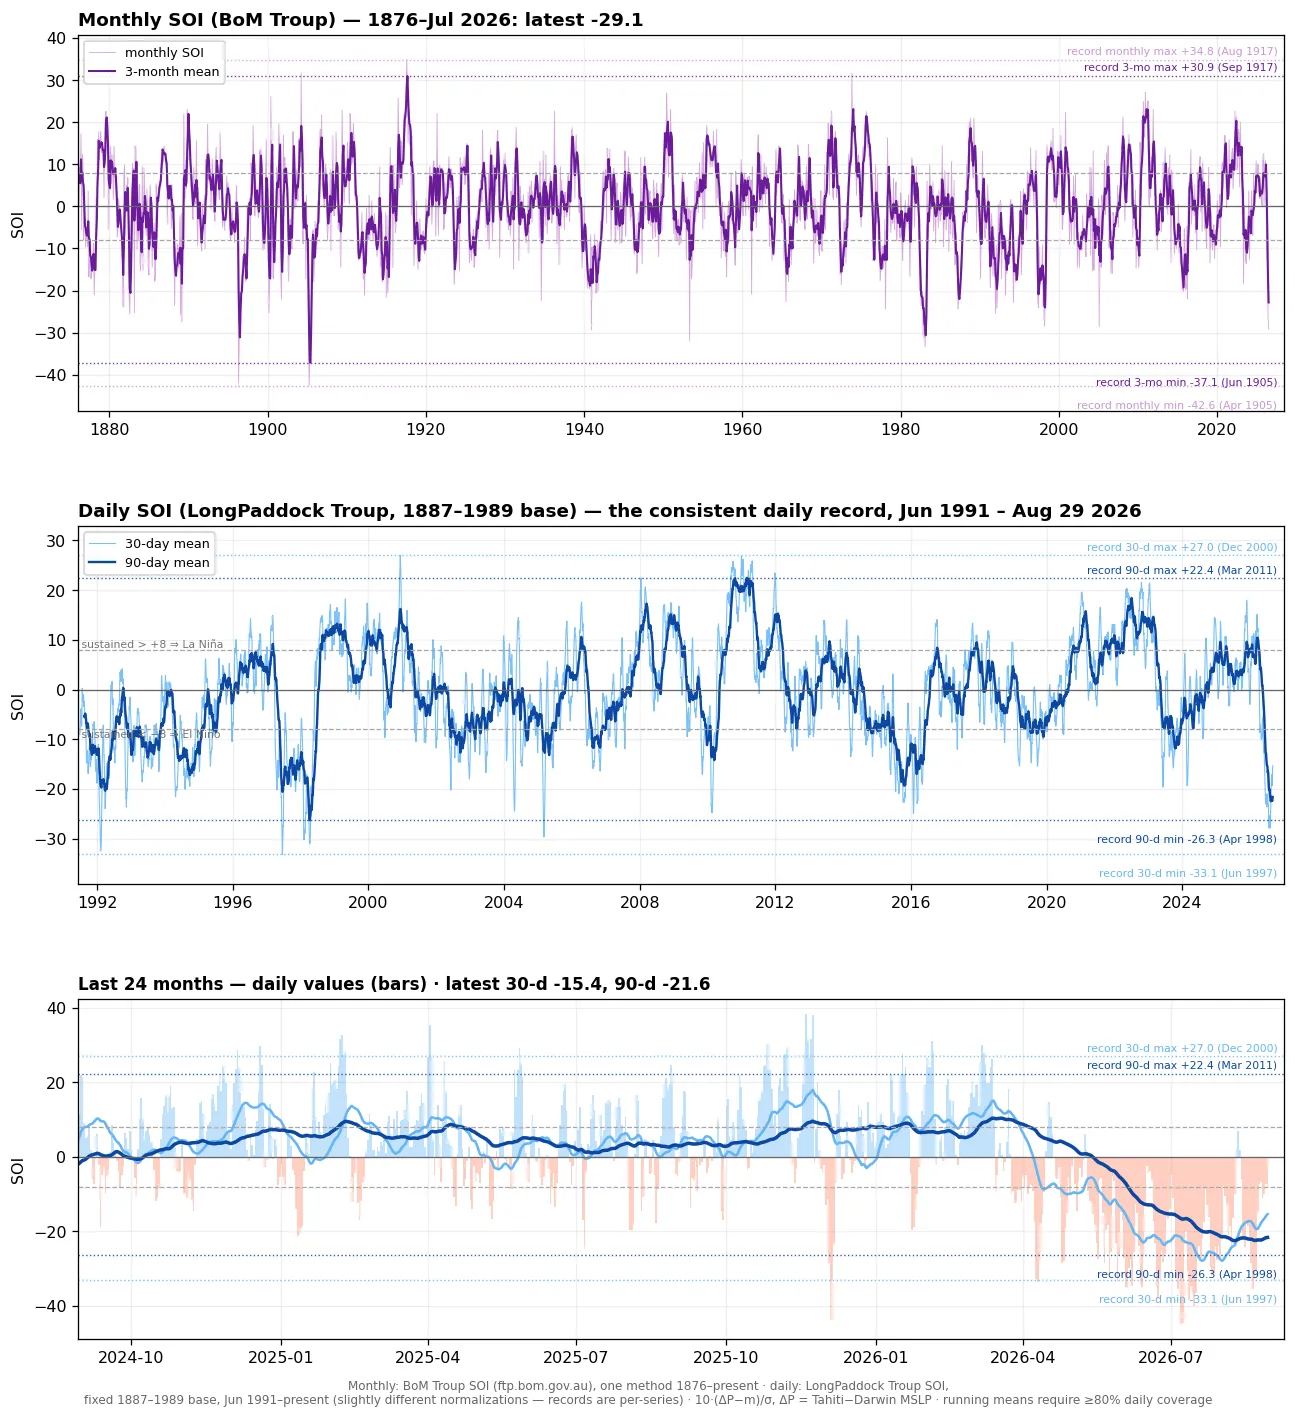
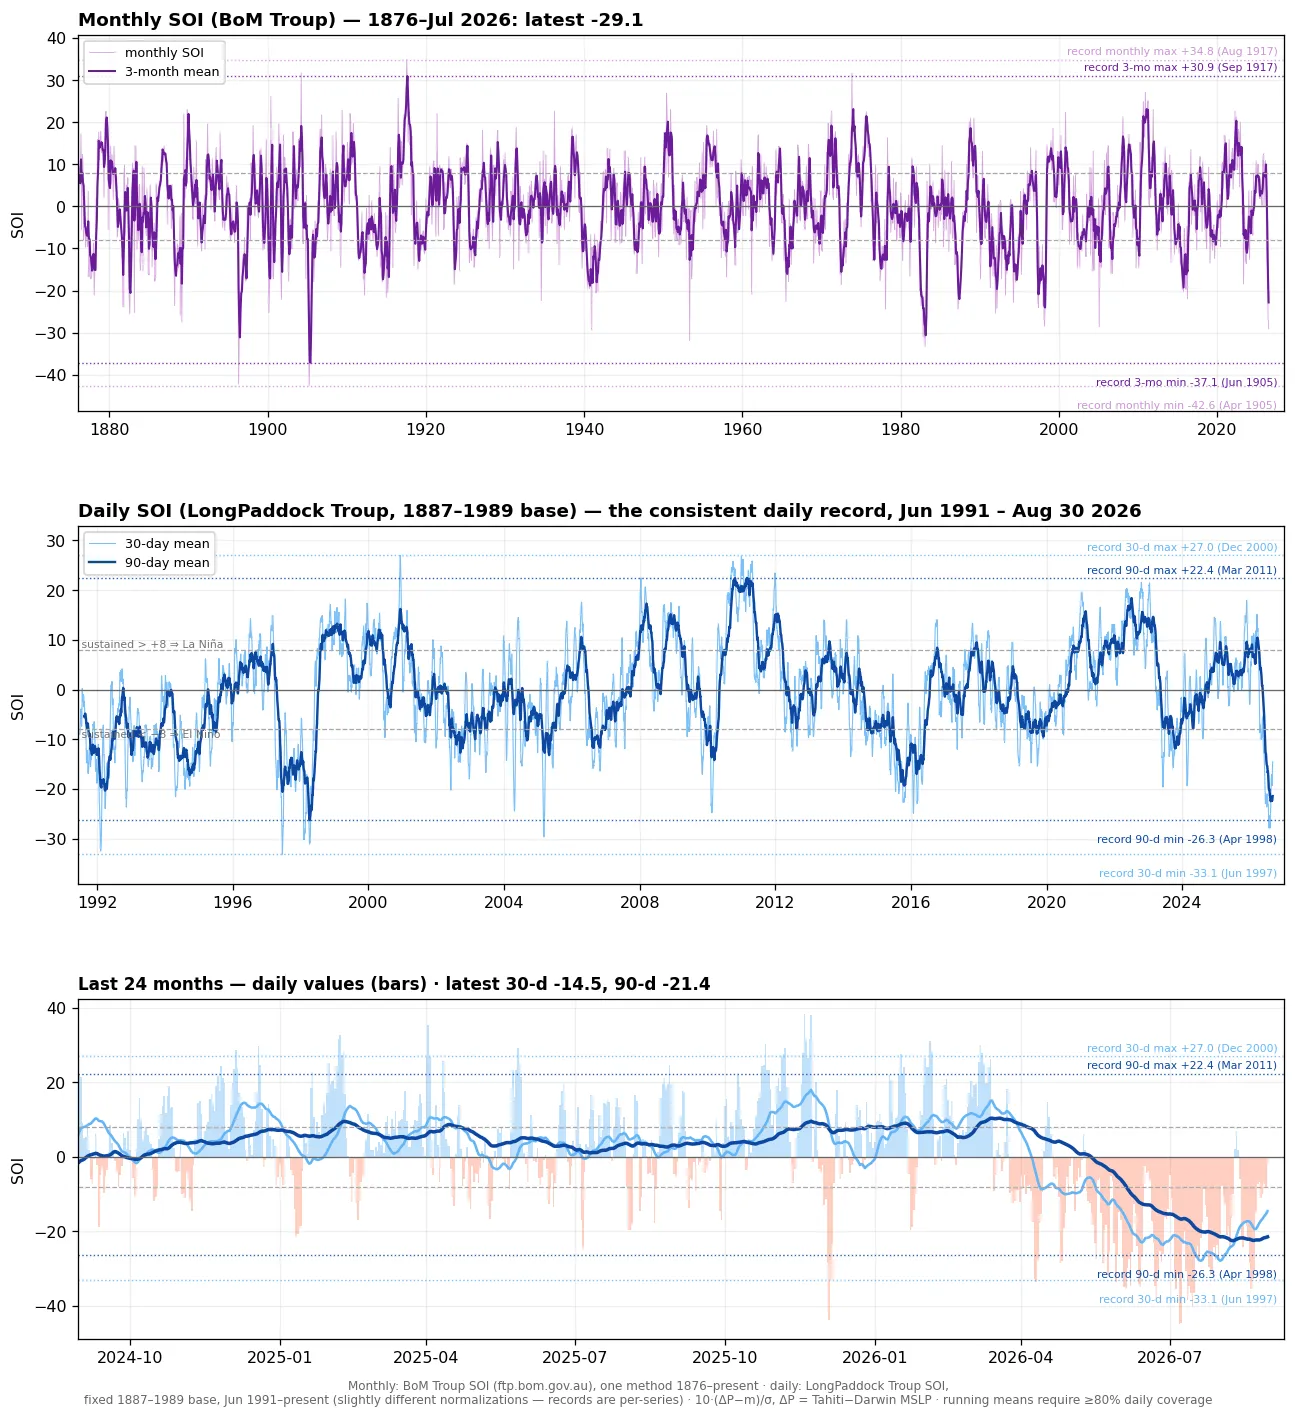
data update: 20260830_00z (a)

diff --git a/enso-atmosphere.html b/enso-atmosphere.html
@@ -652,7 +652,7 @@
         <h2>Atmospheric Angular Momentum</h2>
         <p>Relative AAM is the angular momentum carried by the winds, the atmosphere's total westerly momentum, &int;&nbsp;u&middot;cos&sup2;&phi; over the whole globe. It is dominated by the upper-tropospheric subtropical jets and the deep tropics (largest moment arm), shown here for the globe and each hemisphere from the AIFS-ENS winds on 14 pressure levels (10&ndash;1000&nbsp;hPa &mdash; the full column, validated against the 37-level ERA5 integral and GFZ's ESMGFZ wind-term series to ~1%). The top panel is this year's observed AAM (black) and the 15-day forecast (red) on the climatological annual cycle; the hemispheres are strongly out of phase (each peaks in its own winter). The bottom panel is the anomaly (departure from the 1991&ndash;2020 normal), which removes the seasonal cycle. El&nbsp;Ni&ntilde;o strengthens the subtropical jets and weakens the trades, so the atmosphere holds more westerly momentum; conservation then requires the solid Earth to slow, so AAM ties directly to the measured length of day. The <span style="color:#2e7d32"><b>green trace</b></span> is GFZ's independent ESMGFZ wind-term series (computed from ECMWF's operational analyses for the Earth-rotation community) &mdash; a continuous external check on this pipeline.</p>
       </div>
-      <div class="img-wrap"><img src="assets/sst/aam.webp?v=202608300652" alt="Global and hemispheric atmospheric angular momentum: observed + AIFS-ENS forecast, absolute and anomaly" loading="lazy"></div>
+      <div class="img-wrap"><img src="assets/sst/aam.webp?v=202608300855" alt="Global and hemispheric atmospheric angular momentum: observed + AIFS-ENS forecast, absolute and anomaly" loading="lazy"></div>
       <div class="chart-card-footer"><span class="chart-sources">Forecast: ECMWF AIFS-ENS (open data, CC BY 4.0) &middot; climatology &amp; this-year observed: ERA5 (Copernicus C3S / ECMWF) &middot; updated daily</span></div>
       </div>
 
@@ -660,7 +660,7 @@
       <div class="chart-card-header">
         <h2>AAM Forecast Trend (run-to-run)</h2>
       </div>
-      <div class="img-wrap"><img src="assets/sst/aam_trend.webp?v=202608300652" alt="Run-to-run trend of AIFS-ENS ensemble-mean AAM anomaly forecasts, global and hemispheric" loading="lazy"></div>
+      <div class="img-wrap"><img src="assets/sst/aam_trend.webp?v=202608300855" alt="Run-to-run trend of AIFS-ENS ensemble-mean AAM anomaly forecasts, global and hemispheric" loading="lazy"></div>
       <div class="chart-card-footer"><span class="chart-sources">ECMWF AIFS-ENS (open data, CC BY 4.0) &middot; anomaly vs ERA5 1991&ndash;2020 (Copernicus C3S) &middot; archived each cycle</span></div>
       </div>
 
@@ -669,7 +669,7 @@
         <h2>AAM Phase: Where the Momentum Is, and Where It&rsquo;s Going</h2>
         <p><b>Top</b>: relative AAM integrated in 1.5&deg; latitude bands &mdash; ~3 months observed (ERA5) plus the 15-day AIFS-ENS mean forecast &mdash; so poleward-propagating westerly anomalies and building subtropical momentum show as slanted warm streaks. <b>Bottom</b>: each hemisphere's trajectory through (AAM anomaly, tendency) phase space, the hemispheric analog of the Weickmann&ndash;Berry global wind oscillation orbit: grey trail = last 75 days, red = the forecast. The headline sentence is generated automatically from the forecast quadrant and the latitude band driving the change &mdash; e.g. <i>"NH: rising above-normal AAM &mdash; subtropical westerlies increasing."</i></p>
       </div>
-      <div class="img-wrap"><img src="assets/sst/aam_phase.webp?v=202608300652" alt="Hemispheric AAM phase diagnostics: latitude-time anomaly heatmap and NH/SH phase-space orbits with forecast" loading="lazy"></div>
+      <div class="img-wrap"><img src="assets/sst/aam_phase.webp?v=202608300855" alt="Hemispheric AAM phase diagnostics: latitude-time anomaly heatmap and NH/SH phase-space orbits with forecast" loading="lazy"></div>
       <div class="chart-card-footer"><span class="chart-sources">ERA5 (local store) &middot; AIFS-ENS ensemble mean (open data, CC BY 4.0) &middot; clim: ERA5 1991&ndash;2020 &middot; updated daily</span></div>
       </div>
 
@@ -685,8 +685,8 @@
       </div>
       <iframe data-deferred class="anim-embed torque" data-src="sst_anim.html?embed=1&amp;manifest=torque_manifest.json&amp;region=torque"
               title="AAM surface-torque anomaly animation (friction + mountain) over the AIFS-ENS forecast" loading="lazy"></iframe>
-      <div class="img-wrap"><img src="assets/sst/torque_timeseries.webp?v=202608300652" alt="AAM torque anomalies for globe, Northern and Southern Hemisphere" loading="lazy"></div>
-      <div class="img-wrap"><img src="assets/sst/torque_ranges.webp?v=202608300652" alt="Mountain-torque anomaly broken down by range (Himalaya, Rockies, Andes, Greenland, Antarctica, Alps)" loading="lazy"></div>
+      <div class="img-wrap"><img src="assets/sst/torque_timeseries.webp?v=202608300855" alt="AAM torque anomalies for globe, Northern and Southern Hemisphere" loading="lazy"></div>
+      <div class="img-wrap"><img src="assets/sst/torque_ranges.webp?v=202608300855" alt="Mountain-torque anomaly broken down by range (Himalaya, Rockies, Andes, Greenland, Antarctica, Alps)" loading="lazy"></div>
       <div class="chart-card-footer"><span class="chart-sources">ECMWF AIFS-ENS surface pressure &amp; 10 m wind (open data, CC BY 4.0) &middot; drag coefficient and torque climatology from ERA5 1991&ndash;2020 (Copernicus C3S) &middot; instantaneous once-daily fields &middot; updated daily</span></div>
 
     <!-- E-P FLUX & WAVE DRIVING -->
@@ -747,7 +747,7 @@
       </div>
       <iframe data-deferred class="anim-embed jets" data-src="sst_anim.html?embed=1&amp;manifest=jets_manifest.json&amp;region=jets"
               title="Subtropical jet forecast animation: zonal-mean wind anomaly cross-section, day 0-15 from AIFS-ENS" loading="lazy"></iframe>
-      <div class="img-wrap"><img src="assets/sst/jets.webp?v=202608300652" alt="Subtropical jet monitor: zonal-mean wind cross-section anomaly and jet-core strength/latitude forecast vs ERA5 climatology" loading="lazy"></div>
+      <div class="img-wrap"><img src="assets/sst/jets.webp?v=202608300855" alt="Subtropical jet monitor: zonal-mean wind cross-section anomaly and jet-core strength/latitude forecast vs ERA5 climatology" loading="lazy"></div>
       <div class="chart-card-footer"><span class="chart-sources">ECMWF AIFS-ENS 13-level zonal wind, 51 members (open data, CC BY 4.0) &middot; clim: ERA5 1991&ndash;2020 harmonic day-of-year normal &plusmn;1&sigma; (WeatherBench2 / Copernicus C3S) &middot; updated daily</span></div>
       </div>
       

diff --git a/sst.html b/sst.html
@@ -631,7 +631,7 @@
       <h2>Daily SOI: the Current Event vs the Record</h2>
       <p><b>150 years of the Southern Oscillation, with today marked against the records.</b> <b>Top</b>: the Bureau of Meteorology's monthly Troup SOI computed one way from <b>1876 to the present</b> &mdash; monthly (light) and 3-month mean (bold), with dotted record lines: the all-time monthly extremes were set in Apr&nbsp;1905 (&minus;42.6) and Aug&nbsp;1917 (+34.8). <b>Middle</b>: the consistent <b>daily</b> record &mdash; LongPaddock's daily Troup index (10&middot;(&Delta;P&nbsp;&minus;&nbsp;m)/&sigma;, &Delta;P = Tahiti&nbsp;&minus;&nbsp;Darwin MSLP, fixed 1887&ndash;1989 base), June&nbsp;1991&ndash;present, as 30-day and 90-day running means with their own record max/min lines (1997&ndash;98 holds the 30-day minimum; 2010&ndash;11 the positive records). <b>Bottom</b>: the last 24 months with raw daily values as bars. Sustained values below &minus;8 are the classic Troup El&nbsp;Ni&ntilde;o threshold; the record lines show at a glance how the current excursion ranks in a century and a half of data.</p>
     </div>
-    <div class="img-wrap"><img src="assets/sst/soi_history.webp?v=202608300652" alt="Daily SOI history: 30-day and 90-day running means with all-time record max/min lines" loading="lazy"></div>
+    <div class="img-wrap"><img src="assets/sst/soi_history.webp?v=202608300855" alt="Daily SOI history: 30-day and 90-day running means with all-time record max/min lines" loading="lazy"></div>
     <div class="chart-card-footer">
       <span class="chart-sources">Queensland Govt LongPaddock / BoM daily Troup SOI &middot; fixed 1887&ndash;1989 base &middot; updated each cycle</span>
     </div>
@@ -643,7 +643,7 @@
       <p>NOAA PSL's Multivariate ENSO Index v2 is the leading combined-EOF of five tropical-Pacific fields (sea-level pressure, SST, surface zonal and meridional wind, and OLR), but it is published only as an overlapping bimonthly value with a roughly five-week lag. This is a daily nowcast of it: a regression of the published MEI.v2 onto freely-available daily ENSO components (the Ni&ntilde;o-3.4 SST anomaly, the Southern Oscillation Index, and the equatorial 850-hPa zonal wind), driven forward each day. The grey steps are the official bimonthly MEI.v2; the red line is the daily estimate, with a &plusmn;0.30 leave-one-year-out cross-validation band (the fit reproduces MEI.v2 at R&nbsp;=&nbsp;0.94). The model is SST-weighted, so during a fast SST-led transition it can lead MEI's slower atmospheric components.</p>
     </div>
     <div class="img-wrap">
-      <img src="assets/sst/mei/mei_nowcast.webp?v=202608300652"
+      <img src="assets/sst/mei/mei_nowcast.webp?v=202608300855"
            alt="Daily nowcast of the Multivariate ENSO Index version 2" loading="lazy">
     </div>
     <div class="img-wrap">
@@ -658,7 +658,7 @@
     </div>
     <div class="img-wrap">
       <p class="img-label">Out-of-sample skill: the 2015&ndash;16 El Ni&ntilde;o</p>
-      <img src="assets/sst/mei/mei_validation.webp?v=202608300652"
+      <img src="assets/sst/mei/mei_validation.webp?v=202608300855"
            alt="Validation of the MEI.v2 nowcast over the 2015-16 El Niño" loading="lazy">
     </div>
     <div class="chart-card-footer">
